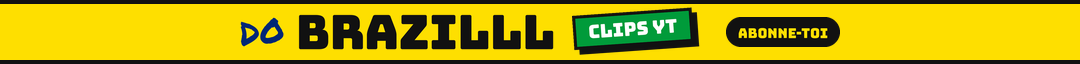
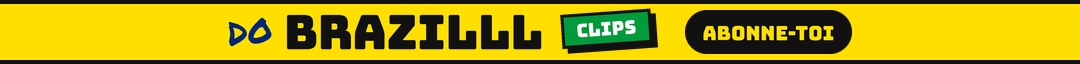
tiktok2 : bande sans « YT », bouton ABONNE-TOI plus grand
Claude-Session: https://claude.ai/code/session_01VJCFjV8P3wi8TQCKCQmhaz

Changed region(s): [[0.2139, 0.125, 0.7944, 0.875]]

diff --git a/tiktok2/outils/bands.py b/tiktok2/outils/bands.py
@@ -1,4 +1,4 @@
-"""Bande 1080x64 du 2e compte : DO (bleu) BRAZILLL (noir) [CLIPS YT] (cartouche vert incliné) + petit bouton ABONNE-TOI.
+"""Bande 1080x64 du 2e compte : DO (bleu) BRAZILLL (noir) [CLIPS] (cartouche vert incliné) + bouton ABONNE-TOI.
 DO et BRAZILLL sont découpés dans brand/logo.png ; le cartouche est redessiné en police Bungee (celle du logo)."""
 import numpy as np
 from PIL import Image, ImageDraw, ImageFont
@@ -35,7 +35,7 @@ def bouton(text, h, s=4):
 DO = crop(850, 600, 1320, 940); BRA = crop(200, 940, 1960, 1200)
 b = Image.new("RGBA", (W, BH), YEL + (255,)); d = ImageDraw.Draw(b)
 d.rectangle((0, 0, W, 3), fill=BLK); d.rectangle((0, BH - 4, W, BH), fill=BLK)
-parts = [fit(DO, 30).convert("RGBA"), fit(BRA, 36).convert("RGBA"), cartouche("CLIPS YT", 34), bouton("ABONNE-TOI", 30)]
+parts = [fit(DO, 30).convert("RGBA"), fit(BRA, 36).convert("RGBA"), cartouche("CLIPS", 34), bouton("ABONNE-TOI", 44)]
 gaps = [14, 18, 26]; tot = sum(p.width for p in parts) + sum(gaps); x = (W - tot) // 2
 for i, p in enumerate(parts):
     b.alpha_composite(p, (x, (BH - p.height) // 2)); x += p.width + (gaps[i] if i < len(gaps) else 0)
